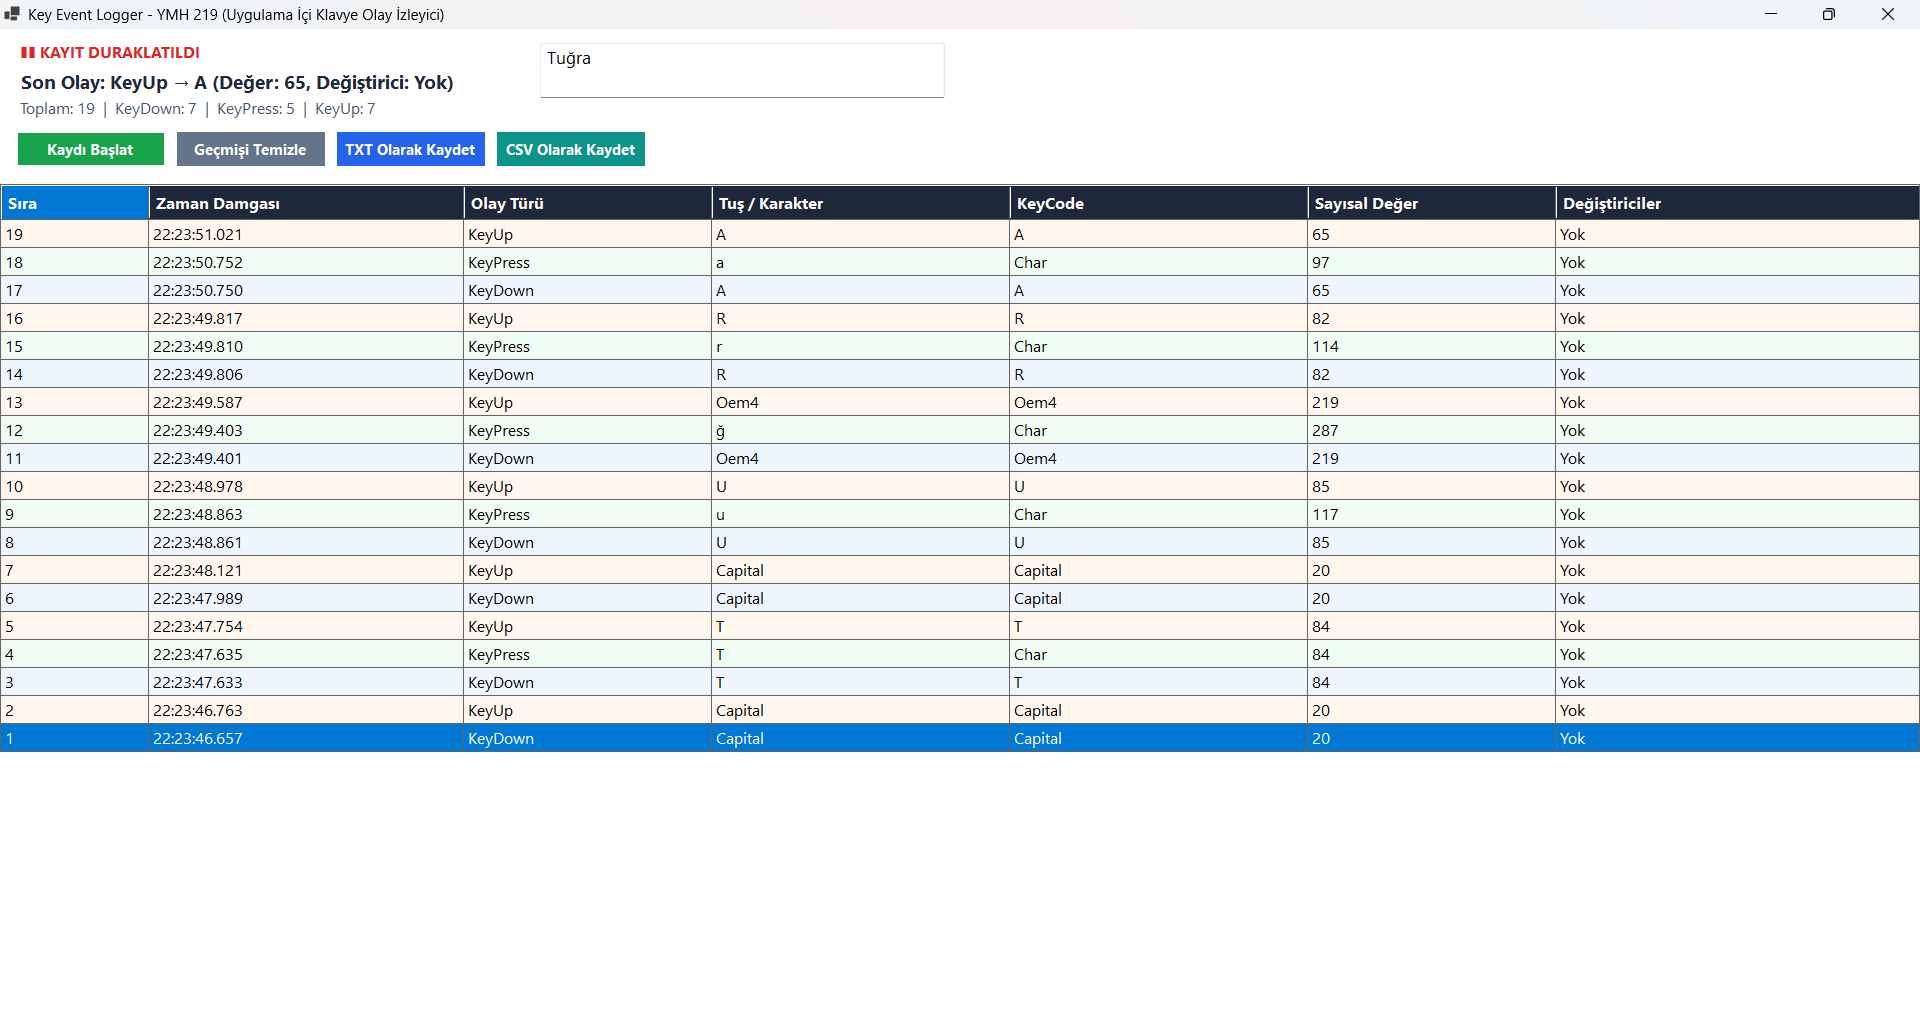
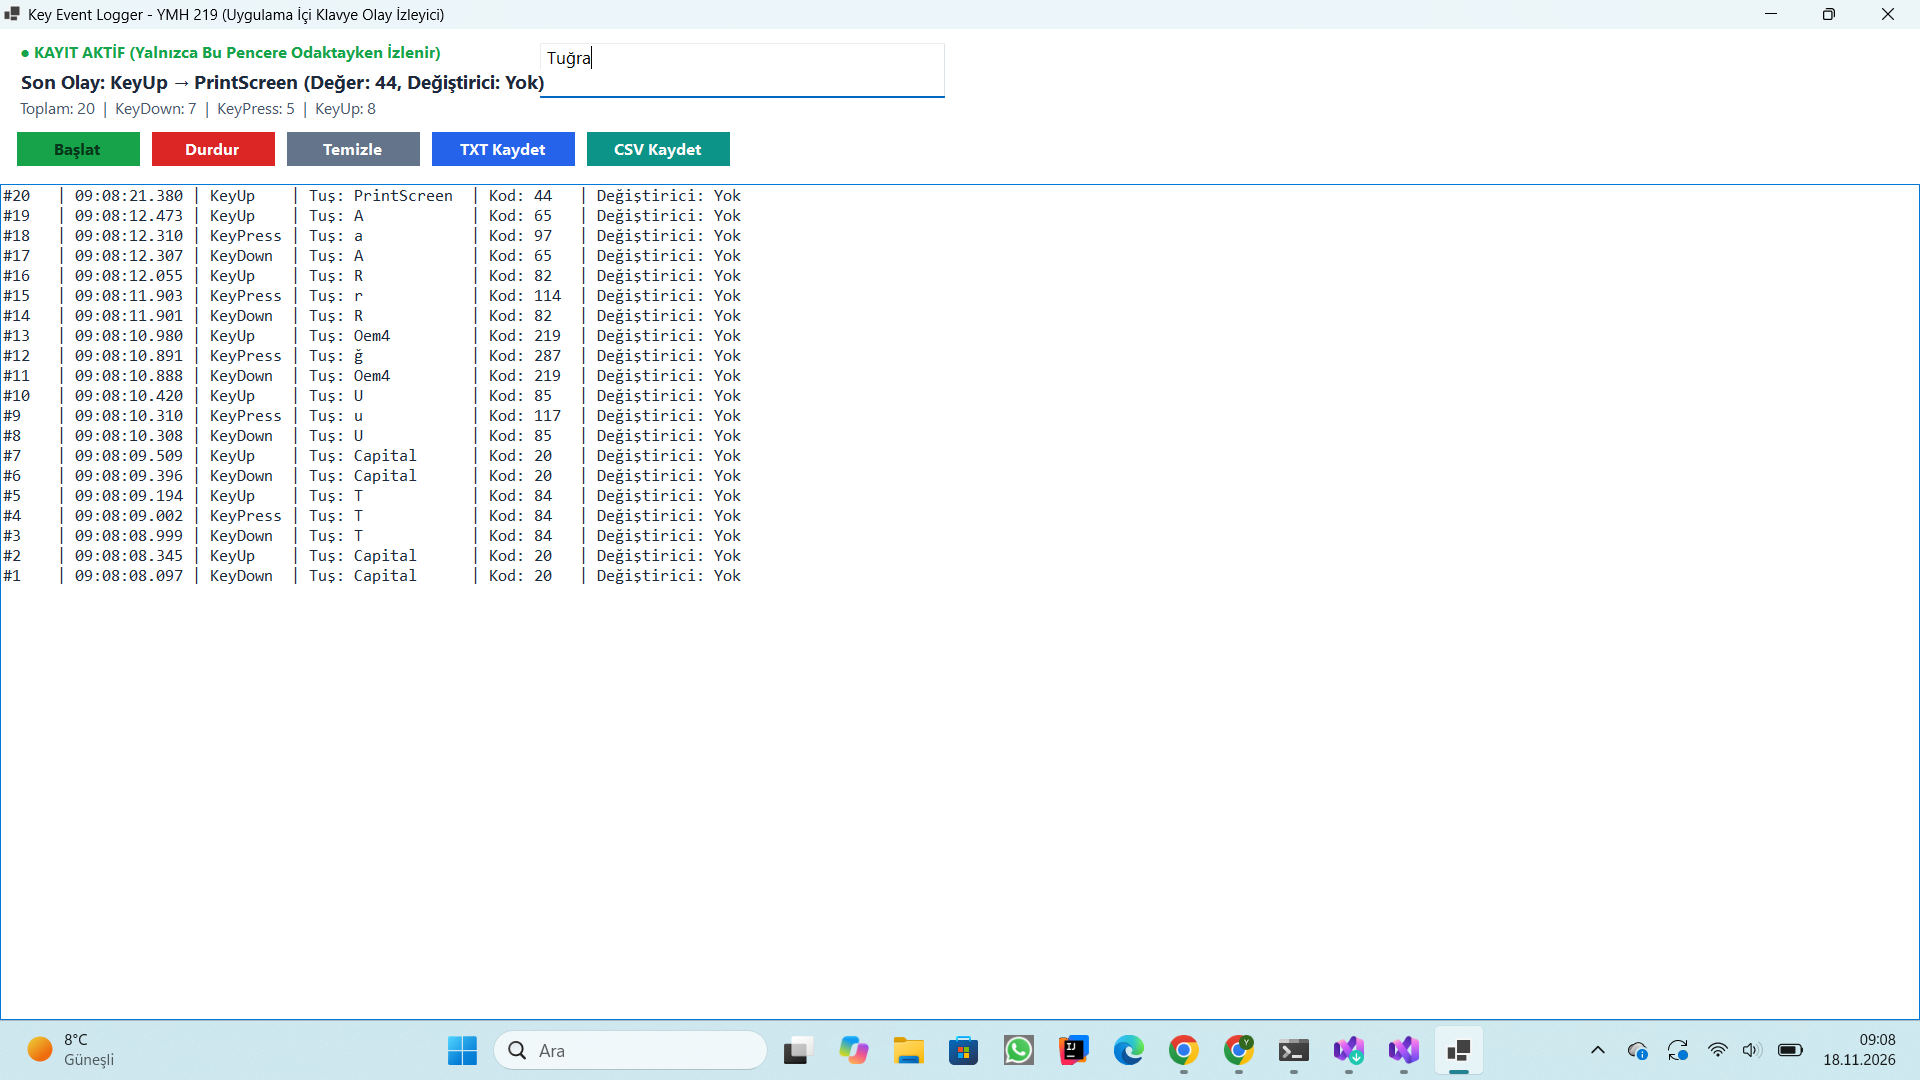
Güncelleme: ListBox ve ayrı Başlat/Durdur butonları eklendi, ekran görüntüleri ve README güncellendi

diff --git a/YMH219-KeyEventLogger/Form1.cs b/YMH219-KeyEventLogger/Form1.cs
@@ -16,14 +16,15 @@ namespace YMH219_KeyEventLogger
         private Label _lblStats = null!;
         private TextBox _txtTestArea = null!;
 
-        // Kontrol Butonları
-        private Button _btnToggleRecord = null!;
+        // Kontrol Butonları (Föye uygun ayrı Başlat ve Durdur butonları)
+        private Button _btnStart = null!;
+        private Button _btnStop = null!;
         private Button _btnClear = null!;
         private Button _btnExportTxt = null!;
         private Button _btnExportCsv = null!;
 
-        // Kayıt Tablosu
-        private DataGridView _dgvLogs = null!;
+        // Kayıt Listesi (Föye uygun ListBox bileşeni)
+        private ListBox _lstLogs = null!;
 
         public Form1()
         {
@@ -31,6 +32,7 @@ namespace YMH219_KeyEventLogger
             _logManager = new KeyLogManager();
             SetupCustomUI();
             BindKeyboardEvents();
+            UpdateRecordingStateUI();
         }
 
         private void SetupCustomUI()
@@ -38,7 +40,7 @@ namespace YMH219_KeyEventLogger
             // Form Genel Ayarları
             this.Text = "Key Event Logger - YMH 219 (Uygulama İçi Klavye Olay İzleyici)";
             this.Size = new Size(980, 640);
-            this.MinimumSize = new Size(860, 540);
+            this.MinimumSize = new Size(880, 540);
             this.StartPosition = FormStartPosition.CenterScreen;
             this.BackColor = Color.FromArgb(245, 247, 250);
             this.Font = new Font("Segoe UI", 9.5F, FontStyle.Regular);
@@ -95,78 +97,56 @@ namespace YMH219_KeyEventLogger
                 PlaceholderText = "Buraya tıklayıp klavyeden tuşlara basarak KeyDown, KeyPress ve KeyUp olaylarını canlı test edebilirsiniz..."
             };
 
-            // Kontrol Butonları
-            _btnToggleRecord = CreateActionButton("Kaydı Duraklat", new Point(16, 102), Color.FromArgb(234, 88, 12));
-            _btnToggleRecord.Click += BtnToggleRecord_Click;
+            // Kontrol Butonları (Ayrı Başlat ve Durdur Butonları)
+            _btnStart = CreateActionButton("Başlat", new Point(16, 102), new Size(125, 36), Color.FromArgb(22, 163, 74));
+            _btnStart.Click += BtnStart_Click;
 
-            _btnClear = CreateActionButton("Geçmişi Temizle", new Point(176, 102), Color.FromArgb(100, 116, 139));
+            _btnStop = CreateActionButton("Durdur", new Point(151, 102), new Size(125, 36), Color.FromArgb(220, 38, 38));
+            _btnStop.Click += BtnStop_Click;
+
+            _btnClear = CreateActionButton("Temizle", new Point(286, 102), new Size(135, 36), Color.FromArgb(100, 116, 139));
             _btnClear.Click += BtnClear_Click;
 
-            _btnExportTxt = CreateActionButton("TXT Olarak Kaydet", new Point(336, 102), Color.FromArgb(37, 99, 235));
+            _btnExportTxt = CreateActionButton("TXT Kaydet", new Point(431, 102), new Size(145, 36), Color.FromArgb(37, 99, 235));
             _btnExportTxt.Click += BtnExportTxt_Click;
 
-            _btnExportCsv = CreateActionButton("CSV Olarak Kaydet", new Point(496, 102), Color.FromArgb(13, 148, 136));
+            _btnExportCsv = CreateActionButton("CSV Kaydet", new Point(586, 102), new Size(145, 36), Color.FromArgb(13, 148, 136));
             _btnExportCsv.Click += BtnExportCsv_Click;
 
             _topPanel.Controls.AddRange(new Control[]
             {
                 _lblStatusBadge, _lblLastKey, _lblStats, _txtTestArea,
-                _btnToggleRecord, _btnClear, _btnExportTxt, _btnExportCsv
+                _btnStart, _btnStop, _btnClear, _btnExportTxt, _btnExportCsv
             });
 
-            // Kayıt Tablosu (DataGridView)
-            _dgvLogs = new DataGridView
+            // Kayıt Listesi (ListBox)
+            _lstLogs = new ListBox
             {
                 Dock = DockStyle.Fill,
-                BackgroundColor = Color.White,
-                BorderStyle = BorderStyle.None,
-                AllowUserToAddRows = false,
-                AllowUserToDeleteRows = false,
-                ReadOnly = true,
-                RowHeadersVisible = false,
-                SelectionMode = DataGridViewSelectionMode.FullRowSelect,
-                AutoSizeColumnsMode = DataGridViewAutoSizeColumnsMode.Fill,
-                EnableHeadersVisualStyles = false,
-                ColumnHeadersHeight = 36,
-                RowTemplate = { Height = 28 }
-            };
+                BackColor = Color.White,
+                ForeColor = Color.FromArgb(30, 41, 59),
+                BorderStyle = BorderStyle.FixedSingle,
+                Font = new Font("Consolas", 10F, FontStyle.Regular),
+                IntegralHeight = false,
+                HorizontalScrollbar = true
+            }; 
 
-            _dgvLogs.ColumnHeadersDefaultCellStyle.BackColor = Color.FromArgb(30, 41, 59);
-            _dgvLogs.ColumnHeadersDefaultCellStyle.ForeColor = Color.White;
-            _dgvLogs.ColumnHeadersDefaultCellStyle.Font = new Font("Segoe UI", 9.5F, FontStyle.Bold);
-
-            _dgvLogs.Columns.Add("Seq", "Sıra");
-            _dgvLogs.Columns.Add("Time", "Zaman Damgası");
-            _dgvLogs.Columns.Add("EventType", "Olay Türü");
-            _dgvLogs.Columns.Add("KeyName", "Tuş / Karakter");
-            _dgvLogs.Columns.Add("KeyCode", "KeyCode");
-            _dgvLogs.Columns.Add("KeyValue", "Sayısal Değer");
-            _dgvLogs.Columns.Add("Modifiers", "Değiştiriciler");
-
-            _dgvLogs.Columns["Seq"]!.FillWeight = 45;
-            _dgvLogs.Columns["Time"]!.FillWeight = 95;
-            _dgvLogs.Columns["EventType"]!.FillWeight = 75;
-            _dgvLogs.Columns["KeyName"]!.FillWeight = 90;
-            _dgvLogs.Columns["KeyCode"]!.FillWeight = 90;
-            _dgvLogs.Columns["KeyValue"]!.FillWeight = 75;
-            _dgvLogs.Columns["Modifiers"]!.FillWeight = 110;
-
-            // Kontrolleri Forma Ekle (Önce Fill olan tablo, sonra Top olan panel eklenir)
-            this.Controls.Add(_dgvLogs);
+            // Kontrolleri Forma Ekle (Önce Fill olan liste, sonra Top olan panel eklenir)
+            this.Controls.Add(_lstLogs);
             this.Controls.Add(_topPanel);
         }
 
-        private Button CreateActionButton(string text, Point location, Color backColor)
+        private Button CreateActionButton(string text, Point location, Size size, Color backColor)
         {
             return new Button
             {
                 Text = text,
                 Location = location,
-                Size = new Size(150, 36),
+                Size = size,
                 FlatStyle = FlatStyle.Flat,
                 BackColor = backColor,
                 ForeColor = Color.White,
-                Font = new Font("Segoe UI", 9F, FontStyle.Bold),
+                Font = new Font("Segoe UI", 9.5F, FontStyle.Bold),
                 Cursor = Cursors.Hand,
                 TabStop = false // Space/Enter basıldığında butonların yanlışlıkla tetiklenmesini önler
             };
@@ -192,7 +172,7 @@ namespace YMH219_KeyEventLogger
         {
             string modifiers = GetModifiersText(e.Modifiers);
             var entry = _logManager.AddEntry("KeyDown", e.KeyCode.ToString(), e.KeyCode.ToString(), e.KeyValue, modifiers);
-            if (entry != null) AddEntryToGrid(entry);
+            if (entry != null) AddEntryToList(entry);
         }
 
         private void Form1_KeyPress(object? sender, KeyPressEventArgs e)
@@ -210,39 +190,22 @@ namespace YMH219_KeyEventLogger
 
             string modifiers = GetModifiersText(Control.ModifierKeys);
             var entry = _logManager.AddEntry("KeyPress", charDisplay, "Char", (int)e.KeyChar, modifiers);
-            if (entry != null) AddEntryToGrid(entry);
+            if (entry != null) AddEntryToList(entry);
         }
 
         private void Form1_KeyUp(object? sender, KeyEventArgs e)
         {
             string modifiers = GetModifiersText(e.Modifiers);
             var entry = _logManager.AddEntry("KeyUp", e.KeyCode.ToString(), e.KeyCode.ToString(), e.KeyValue, modifiers);
-            if (entry != null) AddEntryToGrid(entry);
+            if (entry != null) AddEntryToList(entry);
         }
 
-        private void AddEntryToGrid(KeyLogEntry entry)
+        private void AddEntryToList(KeyLogEntry entry)
         {
-            // En son olay her zaman en üstte görünecek şekilde 0. indekse ekliyoruz
-            _dgvLogs.Rows.Insert(
-                0,
-                entry.SequenceNumber,
-                entry.Timestamp.ToString("HH:mm:ss.fff"),
-                entry.EventType,
-                entry.KeyName,
-                entry.KeyCode,
-                entry.KeyValue,
-                entry.Modifiers
-            );
+            string formattedLine = $"#{entry.SequenceNumber,-4} | {entry.Timestamp:HH:mm:ss.fff} | {entry.EventType,-8} | Tuş: {entry.KeyName,-12} | Kod: {entry.KeyValue,-4} | Değiştirici: {entry.Modifiers}";
 
-            // Olay türüne göre satır renklendirmesi
-            DataGridViewRow row = _dgvLogs.Rows[0];
-            row.DefaultCellStyle.BackColor = entry.EventType switch
-            {
-                "KeyDown" => Color.FromArgb(239, 246, 255),  // Açık Mavi
-                "KeyPress" => Color.FromArgb(240, 253, 244), // Açık Yeşil
-                "KeyUp" => Color.FromArgb(255, 247, 237),    // Açık Turuncu
-                _ => Color.White
-            };
+            // En son olay her zaman en üstte görünecek şekilde 0. indekse ekliyoruz
+            _lstLogs.Items.Insert(0, formattedLine);
 
             _lblLastKey.Text = $"Son Olay: {entry.EventType} → {entry.KeyName} (Değer: {entry.KeyValue}, Değiştirici: {entry.Modifiers})";
             UpdateStatsLabel();
@@ -253,30 +216,40 @@ namespace YMH219_KeyEventLogger
             _lblStats.Text = $"Toplam: {_logManager.TotalCount}  |  KeyDown: {_logManager.KeyDownCount}  |  KeyPress: {_logManager.KeyPressCount}  |  KeyUp: {_logManager.KeyUpCount}";
         }
 
-        private void BtnToggleRecord_Click(object? sender, EventArgs e)
+        private void UpdateRecordingStateUI()
         {
-            _logManager.IsRecording = !_logManager.IsRecording;
-
             if (_logManager.IsRecording)
             {
                 _lblStatusBadge.Text = "● KAYIT AKTİF (Yalnızca Bu Pencere Odaktayken İzlenir)";
                 _lblStatusBadge.ForeColor = Color.FromArgb(22, 163, 74);
-                _btnToggleRecord.Text = "Kaydı Duraklat";
-                _btnToggleRecord.BackColor = Color.FromArgb(234, 88, 12);
+                _btnStart.Enabled = false;
+                _btnStop.Enabled = true;
             }
             else
             {
-                _lblStatusBadge.Text = "❚❚ KAYIT DURAKLATILDI";
+                _lblStatusBadge.Text = "■ KAYIT DURDURULDU";
                 _lblStatusBadge.ForeColor = Color.FromArgb(220, 38, 38);
-                _btnToggleRecord.Text = "Kaydı Başlat";
-                _btnToggleRecord.BackColor = Color.FromArgb(22, 163, 74);
+                _btnStart.Enabled = true;
+                _btnStop.Enabled = false;
             }
+        }
+
+        private void BtnStart_Click(object? sender, EventArgs e)
+        {
+            _logManager.IsRecording = true;
+            UpdateRecordingStateUI();
+        }
+
+        private void BtnStop_Click(object? sender, EventArgs e)
+        {
+            _logManager.IsRecording = false;
+            UpdateRecordingStateUI();
         }
 
         private void BtnClear_Click(object? sender, EventArgs e)
         {
             _logManager.Clear();
-            _dgvLogs.Rows.Clear();
+            _lstLogs.Items.Clear();
             _lblLastKey.Text = "Son Olay: Geçmiş temizlendi";
             UpdateStatsLabel();
         }

diff --git a/README.md b/README.md
@@ -3,29 +3,27 @@
 Bu proje, **Fırat Üniversitesi Yazılım Mühendisliği Bölümü** **Nesne Tabanlı Programlama (YMH 219)** dersi kapsamında geliştirilmiş, yalnızca uygulama penceresi odaktayken çalışan C# Windows Forms tabanlı bir **Key Event Logger (Klavye Olay İzleyici)** uygulamasıdır.
 
 ## Etik Sınır ve Çalışma Prensibi
-* Uygulama **kesinlikle arka planda veya sistem genelinde (global hook) gizli dinleme yapmaz**.
-* Yalnızca uygulama penceresi aktif (odakta) iken `KeyPreview = true` özelliği üzerinden klavye olaylarını yakalar ve pencere kapatıldığında tüm bellek kayıtlarını sonlandırır.
+- Uygulama **kesinlikle arka planda veya sistem genelinde (global hook) gizli dinleme yapmaz**.
+- Yalnızca uygulama penceresi aktif (odakta) iken `KeyPreview = true` özelliği üzerinden klavye olaylarını yakalar ve pencere kapatıldığında tüm bellek kayıtlarını sonlandırır.
 
 ## Kullanılan Teknolojiler
-* **Dil:** C#
-* **Platform / Framework:** .NET Windows Forms (WinForms)
-* **Geliştirme Ortamı:** Visual Studio 2026
-* **Versiyon Kontrol:** Git & GitHub
+- **Dil:** C#
+- **Platform / Framework:** .NET Windows Forms (WinForms)
+- **Geliştirme Ortamı:** Visual Studio 2026
+- **Versiyon Kontrol:** Git & GitHub
 
 ## Kurulum ve Çalıştırma Adımları
 1. Depoyu bilgisayarınıza klonlayın:
-   ```bash
-   git clone [https://github.com/yusuftugradeveci23/YMH219-KeyEventLogger.git](https://github.com/yusuftugradeveci23/YMH219-KeyEventLogger.git)
-   ```
-2. İndirilen klasör içerisindeki `YMH219-KeyEventLogger.sln` (veya `.csproj`) dosyasını Visual Studio ile açın.
+   `git clone https://github.com/yusuftugradeveci23/YMH219-KeyEventLogger.git`
+2. İndirilen klasör içerisindeki `YMH219-KeyEventLogger/YMH219-KeyEventLogger.slnx` (veya `.csproj`) dosyasını Visual Studio ile açın.
 3. Üst menüden **Derle > Çözümü Derle (Build Solution)** işlemini gerçekleştirin.
 4. **F5** tuşuna basarak veya **Başlat (Start)** butonuna tıklayarak uygulamayı çalıştırın.
 
 ## Uygulamanın Temel Özellikleri
-* **Nesne Tabanlı Mimari (OOP):** Kayıt veri modeli `KeyLogEntry`, bellek yönetimi, sayaç istatistikleri ve dosya dışa aktarma işlemleri `KeyLogManager` sınıflarına ayrıştırılmıştır.
-* **Üç Aşamalı Olay Yakalama:** Basılan her tuş için `KeyDown`, `KeyPress` ve `KeyUp` olayları zaman damgası (`HH:mm:ss.fff`), `KeyCode`, sayısal değer (`KeyValue`) ve değiştirici tuş (`Ctrl`, `Shift`, `Alt`) bilgileriyle yakalanır.
-* **Canlı İstatistik ve Renk Kodlu Tablo:** `DataGridView` üzerinde her olay türü farklı renkle vurgulanır; toplam ve olay bazlı sayaçlar anlık güncellenir.
-* **Kayıt Kontrolü ve Dışa Aktarma:** Kayıt akışı duraklatılıp devam ettirilebilir, geçmiş temizlenebilir ve kayıtlar **`.txt`** (okunabilir rapor) veya **`.csv`** (tablo) formatında dışa aktarılabilir.
+- **Nesne Tabanlı Mimari (OOP):** Kayıt veri modeli `KeyLogEntry`, bellek yönetimi, sayaç istatistikleri ve dosya dışa aktarma işlemleri `KeyLogManager` sınıflarına ayrıştırılmıştır.
+- **Üç Aşamalı Olay Yakalama:** Basılan her tuş için `KeyDown`, `KeyPress` ve `KeyUp` olayları zaman damgası (`HH:mm:ss.fff`), `KeyCode`, sayısal değer (`KeyValue`) ve değiştirici tuş (`Ctrl`, `Shift`, `Alt`) bilgileriyle yakalanır.
+- **Canlı İstatistik ve ListBox Görüntüleme:** Yakalanan tuş olayları ve zaman damgaları `ListBox` bileşeni üzerinde hizalı ve kronolojik biçimde listelenir; toplam ve olay bazlı sayaçlar anlık güncellenir.
+- **Kayıt Kontrolü ve Dışa Aktarma:** Kayıt akışı ayrı **Başlat** ve **Durdur** butonları ile kontrol edilebilir, **Temizle** butonu ile geçmiş silinebilir ve kayıtlar **`.txt`** (okunabilir rapor) veya **`.csv`** (tablo) formatında dışa aktarılabilir.
 
 ## Ekran Görüntüleri
 
@@ -39,9 +37,9 @@ Bu proje, **Fırat Üniversitesi Yazılım Mühendisliği Bölümü** **Nesne Ta
 ![CSV Çıktısı](csv_export.png)
 
 ## Bilinen Sınırlamalar ve Geliştirme Notları
-* Türkçe karakterlerin (ör. `ğ`, `ü`, `ş`) Excel ve metin düzenleyicilerde sorunsuz görüntülenmesi için dışa aktarmalarda **UTF-8 BOM** kodlaması kullanılmıştır.
-* İlerleyen sürümlerde olay türüne göre filtreleme ve tuş basım sıklığı grafiği eklenebilir.
+- Türkçe karakterlerin (ör. `ğ`, `ü`, `ş`) Excel ve metin düzenleyicilerde sorunsuz görüntülenmesi için dışa aktarmalarda **UTF-8 BOM** kodlaması kullanılmıştır.
+- İlerleyen sürümlerde olay türüne göre filtreleme ve tuş basım sıklığı grafiği eklenebilir.
 
 ## Öğrenci Bilgileri
-* **Adı Soyadı:** Yusuf Tuğra Deveci
-* **Öğrenci Numarası:** 250541095
+- **Adı Soyadı:** Yusuf Tuğra Deveci
+- **Öğrenci Numarası:** 250541095
